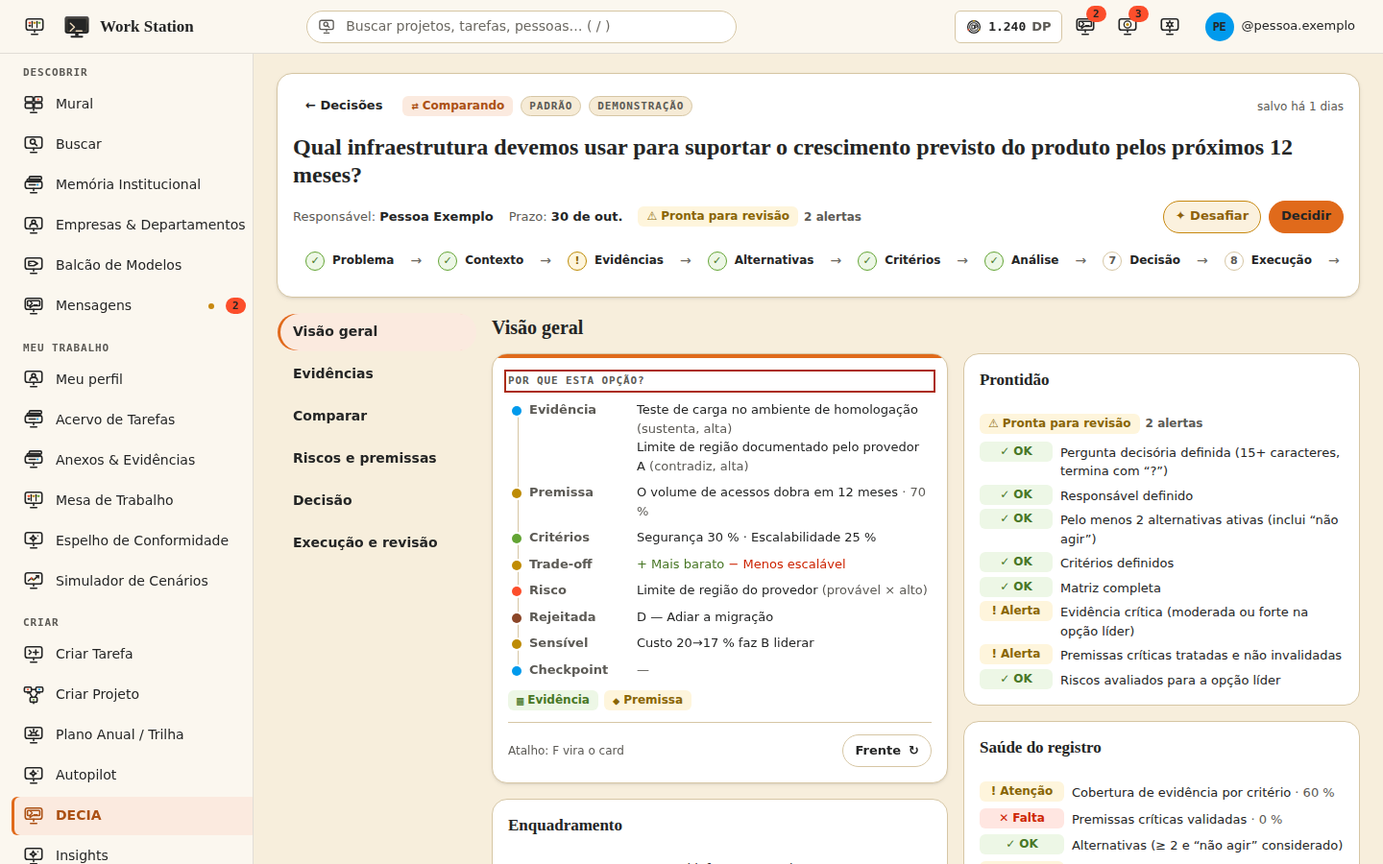
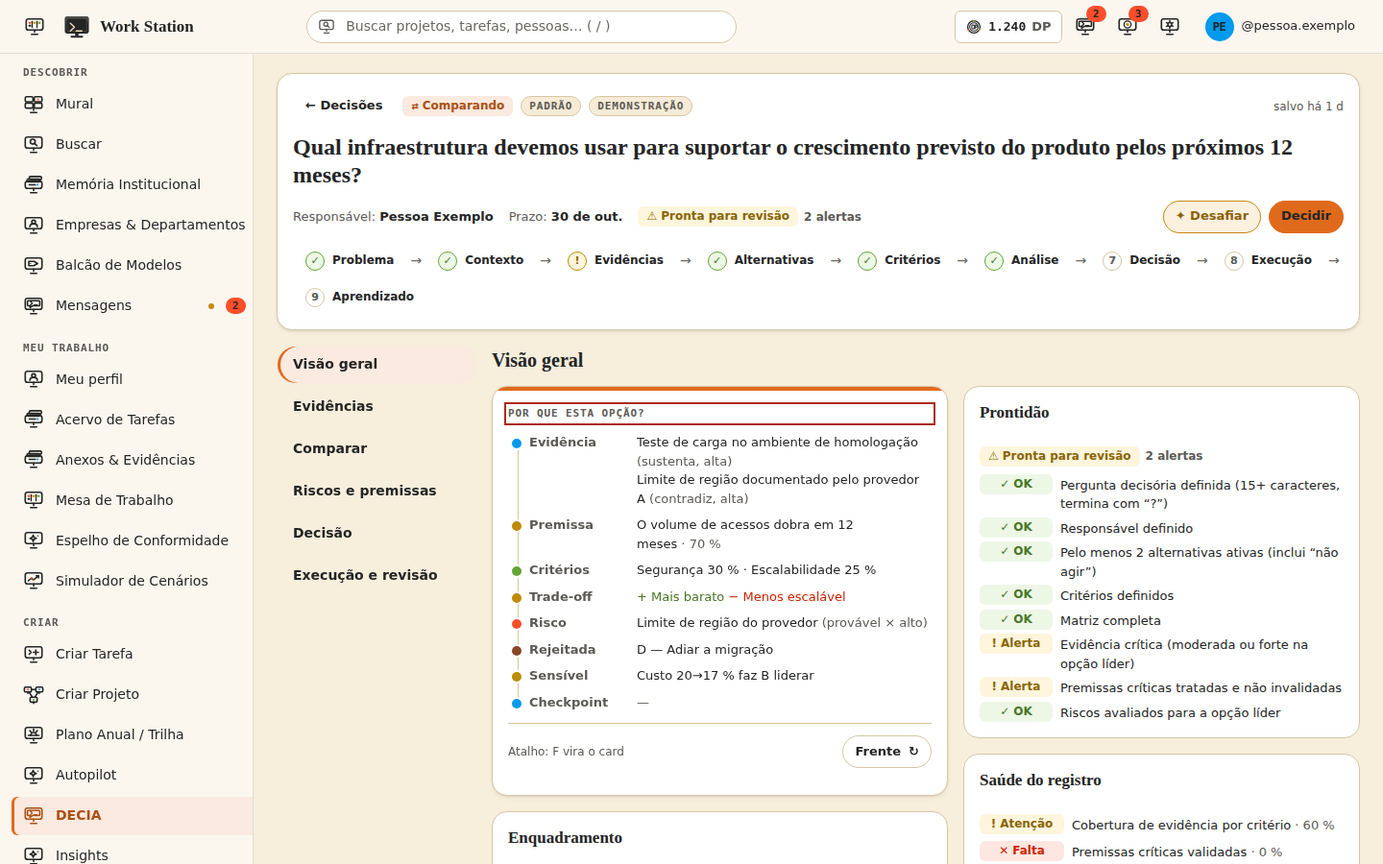
fix(rf29): align decia enums, guard and vectors with java domain; fix mobile overflow
Claude-Session: https://claude.ai/code/session_01KGwP9AAPCHnmdWi7UQkQYW

Changed region(s): [[0.1875, 0.3422, 1.0, 1.0], [0.1875, 0.4667, 0.3125, 0.6844], [0.9062, 0.0933, 0.9688, 0.1244]]

diff --git a/lib/decia/commands.ts b/lib/decia/commands.ts
@@ -5,14 +5,14 @@
  */
 import { buildSnapshotContent, canonicalJson, MODEL_VERSION, preDecisionGuard, sha256Hex, snapConfidence, type DecisionDraft } from "./rules";
 import type {
-  DecisionAggregate, DecisionComplexity, DecisionEvent, DecisionEventType, TimelineMarker, DecisionKind, DecisionLevel, DecisionLifecycle, DecisionSnapshot,
+  DecisionAggregate, DecisionComplexity, DecisionEvent, DecisionEventType, DecisionKind, DecisionLevel, DecisionLifecycle, DecisionSnapshot,
   EvidenceNature, EvidenceStance, OutcomeResult, RelevanceLevel,
 } from "./types";
 
 let seq = 0;
 const nextId = (prefix: string) => `${prefix}-${Date.now().toString(36)}-${(seq++).toString(36)}`;
 
-function touch(agg: DecisionAggregate, now: Date, actor: string | null, type: DecisionEventType | TimelineMarker, payload: Record<string, unknown> = {}): DecisionAggregate {
+function touch(agg: DecisionAggregate, now: Date, actor: string | null, type: DecisionEventType, payload: Record<string, unknown> = {}): DecisionAggregate {
   const ev: DecisionEvent = { id: nextId("ev"), actorUserId: actor, type, payload, at: now.toISOString() };
   return { ...agg, decision: { ...agg.decision, version: agg.decision.version + 1, updatedAt: now.toISOString() }, events: [...agg.events, ev] };
 }
@@ -21,19 +21,19 @@ function touch(agg: DecisionAggregate, now: Date, actor: string | null, type: De
 export function setScore(agg: DecisionAggregate, altId: string, critId: string, assessorId: string, score: number | null, now: Date): DecisionAggregate {
   const rest = agg.assessments.filter((a) => !(a.alternativeId === altId && a.criterionId === critId && a.assessorUserId === assessorId));
   const assessments = score === null ? rest : [...rest, { id: nextId("as"), alternativeId: altId, criterionId: critId, assessorUserId: assessorId, score: Math.max(1, Math.min(5, Math.round(score))), submittedAt: now.toISOString(), origin: "HUMANO" as const }];
-  return touch({ ...agg, assessments }, now, assessorId, "DECISION_COMPARED", { altId, critId, score });
+  return touch({ ...agg, assessments }, now, assessorId, "AVALIACAO_REGISTRADA", { altId, critId, score });
 }
 
 export function setWeight(agg: DecisionAggregate, critId: string, weightPct: number | null, actor: string, now: Date): DecisionAggregate {
   const criteria = agg.criteria.map((c) => (c.id === critId ? { ...c, weightPct } : c));
-  return touch({ ...agg, criteria }, now, actor, "CRITERION_CHANGED", { critId, weightPct });
+  return touch({ ...agg, criteria }, now, actor, "CRITERIO_ATUALIZADO", { critId, weightPct });
 }
 
 export function addAlternative(agg: DecisionAggregate, input: { title: string; doNothing?: boolean }, actor: string, now: Date): DecisionAggregate {
   const position = agg.alternatives.length;
   const label = String.fromCharCode(65 + (position % 26));
   const alternative = { id: nextId("alt"), label, title: input.title.trim(), doNothing: !!input.doNothing, pros: [], cons: [], status: "ATIVA" as const, origin: "HUMANO" as const, position };
-  return touch({ ...agg, alternatives: [...agg.alternatives, alternative] }, now, actor, "ALTERNATIVE_ADDED", { label });
+  return touch({ ...agg, alternatives: [...agg.alternatives, alternative] }, now, actor, "ALTERNATIVA_CRIADA", { label });
 }
 
 export function addEvidence(
@@ -49,22 +49,22 @@ export function addEvidence(
     origin: "HUMANO" as const, addedByUserId: actor, addedAt: now.toISOString(),
   };
   const links = input.altId ? [{ id: nextId("lnk"), evidenceId: id, targetType: "ALTERNATIVA" as const, targetId: input.altId, stance: input.stance ?? "SUSTENTA", createdAt: now.toISOString() }] : [];
-  return touch({ ...agg, evidence: [...agg.evidence, evidence], evidenceLinks: [...agg.evidenceLinks, ...links] }, now, actor, "EVIDENCE_ADDED", { evidenceId: id });
+  return touch({ ...agg, evidence: [...agg.evidence, evidence], evidenceLinks: [...agg.evidenceLinks, ...links] }, now, actor, "EVIDENCIA_ADICIONADA", { evidenceId: id });
 }
 
 export function addCriteria(agg: DecisionAggregate, names: readonly string[], actor: string, now: Date): DecisionAggregate {
   const start = agg.criteria.length;
   const criteria = [...agg.criteria, ...names.map((name, i) => ({ id: nextId("crt"), name, direction: "MAIOR_MELHOR" as const, weightPct: null, origin: "HUMANO" as const, position: start + i }))];
-  return touch({ ...agg, criteria }, now, actor, "CRITERION_CHANGED", { added: names.length });
+  return touch({ ...agg, criteria }, now, actor, "CRITERIO_ATUALIZADO", { added: names.length });
 }
 
 export function setRecommendationStatus(agg: DecisionAggregate, recId: string, status: "ACEITA" | "DESCARTADA", actor: string, now: Date): DecisionAggregate {
   const recommendations = agg.recommendations.map((r) => (r.id === recId ? { ...r, status } : r));
-  return touch({ ...agg, recommendations }, now, actor, status === "ACEITA" ? "AI_SUGGESTION_ACCEPTED" : "AI_SUGGESTION_DISMISSED", { recId });
+  return touch({ ...agg, recommendations }, now, actor, status === "ACEITA" ? "SUGESTAO_IA_ACEITA" : "SUGESTAO_IA_DESCARTADA", { recId });
 }
 
 export function setStatus(agg: DecisionAggregate, to: DecisionLifecycle, actor: string, now: Date): DecisionAggregate {
-  return touch({ ...agg, decision: { ...agg.decision, status: to } }, now, actor, "STATUS_CHANGED", { to });
+  return touch({ ...agg, decision: { ...agg.decision, status: to } }, now, actor, "ESTADO_ALTERADO", { to });
 }
 
 export class DecisionIncompleteError extends Error {
@@ -79,10 +79,12 @@ export class DecisionIncompleteError extends Error {
  * DECISAO append-only com o hash do JSON canônico e muda o estado para DECIDIDA. O snapshot nunca é atualizado depois.
  */
 export function decide(agg: DecisionAggregate, draft: DecisionDraft & { warningsConfirmed?: boolean }, actor: string, now: Date): { aggregate: DecisionAggregate; snapshot: DecisionSnapshot } {
-  const guard = preDecisionGuard(agg, draft);
+  // a guarda roda sobre exatamente os valores que serão gravados (confiança já normalizada, motivo sem espaços nas pontas)
+  const confidencePct = draft.confidencePct == null ? undefined : snapConfidence(draft.confidencePct);
+  const stored = { selectedAlternativeId: draft.selectedAlternativeId, rationale: draft.rationale.trim(), confidencePct };
+  const guard = preDecisionGuard(agg, stored);
   if (guard.blocking.length) throw new DecisionIncompleteError(guard.blocking);
   if (guard.warnings.length && !draft.warningsConfirmed) throw new DecisionIncompleteError(["DECISAO_AVISOS_NAO_CONFIRMADOS"]);
-  const confidencePct = draft.confidencePct == null ? undefined : snapConfidence(draft.confidencePct);
   const content = buildSnapshotContent(agg, { ...draft, confidencePct, decidedByUserId: actor });
   const contentJson = canonicalJson(content);
   const versionNumber = agg.snapshots.length + 1;
@@ -96,15 +98,15 @@ export function decide(agg: DecisionAggregate, draft: DecisionDraft & { warnings
     decision: { ...agg.decision, status: "DECIDIDA", selectedAlternativeId: selected.id, decidedAt: now.toISOString(), rationale: draft.rationale.trim(), decisionConfidencePct: confidencePct },
     snapshots: [...agg.snapshots, snapshot],
   };
-  const withTrail = touch(touch(decided, now, actor, "DECISION_FINALIZED", { snapshotId: snapshot.id, warnings: guard.warnings, sha256: snapshot.contentSha256 }), now, actor, "STATUS_CHANGED", { to: "DECIDIDA" });
+  const withTrail = touch(touch(decided, now, actor, "DECISAO_FINALIZADA", { snapshotId: snapshot.id, warnings: guard.warnings, sha256: snapshot.contentSha256 }), now, actor, "ESTADO_ALTERADO", { to: "DECIDIDA" });
   return { aggregate: withTrail, snapshot };
 }
 
 /** Registrar o resultado observado (único por decisão) e mover para RESOLVIDA. */
 export function recordOutcome(agg: DecisionAggregate, input: { result: OutcomeResult; summary: string }, actor: string, now: Date): DecisionAggregate {
   const outcome = { id: nextId("out"), result: input.result, summary: input.summary.trim(), observedAt: now.toISOString(), recordedByUserId: actor };
-  const withOutcome = touch({ ...agg, outcome, decision: { ...agg.decision, status: "RESOLVIDA" } }, now, actor, "OUTCOME_RECORDED", { result: input.result });
-  return touch(withOutcome, now, actor, "STATUS_CHANGED", { to: "RESOLVIDA" });
+  const withOutcome = touch({ ...agg, outcome, decision: { ...agg.decision, status: "RESOLVIDA" } }, now, actor, "RESULTADO_REGISTRADO", { result: input.result });
+  return touch(withOutcome, now, actor, "ESTADO_ALTERADO", { to: "RESOLVIDA" });
 }
 
 export interface NewDecisionInput {
@@ -137,7 +139,7 @@ export function createDecision(input: NewDecisionInput, now: Date, id = nextId("
     participants: [{ userId: input.ownerUserId, role: "CONDUTOR", joinedAt: iso }],
     alternatives: [], criteria: [], assessments: [], evidence: [], evidenceLinks: [], assumptions: [], risks: [], scenarios: [], forecasts: [],
     recommendations: [], triggers: [], snapshots: [], checkpoints: [], workLinks: [],
-    events: [{ id: nextId("ev"), actorUserId: input.ownerUserId, type: "DECISION_CREATED", payload: { complexity: input.complexity }, at: iso }],
+    events: [{ id: nextId("ev"), actorUserId: input.ownerUserId, type: "DECISAO_CRIADA", payload: { complexity: input.complexity }, at: iso }],
   };
   return tpl ? { ...addCriteria(agg, tpl.criteria, input.ownerUserId, now), decision: { ...agg.decision, version: 1 } } : agg;
 }

diff --git a/components/shell/RfPage.tsx b/components/shell/RfPage.tsx
@@ -43,7 +43,7 @@ export function RfBlock({ rf, open = false }: { rf: RfEntry; open?: boolean }) {
         <span className="min-w-0 flex-1">{rf.title}</span>
         <span className="text-ws-text-muted transition-transform group-open:rotate-180" aria-hidden>⌄</span>
       </summary>
-      <div className="grid gap-3 border-t border-ws-border p-3 text-[length:var(--ws-text-body-sm)]">
+      <div className="grid gap-3 border-t border-ws-border p-3 text-[length:var(--ws-text-body-sm)] [overflow-wrap:anywhere]">
         {rf.hu ? <p><span className="font-semibold">{t("rf.story")}:</span> {rf.hu}</p> : null}
         {!rf.hu && rf.summary ? <p className="text-ws-text-muted">{rf.summary}</p> : null}
         {rf.route ? <p className="text-ws-text-muted"><span className="font-semibold text-ws-text">{t("rf.route")}:</span> {rf.route}</p> : null}
@@ -92,7 +92,7 @@ export function RfPage({ page, subtitle, tabs, tabLabel, renderTab, children, hi
           code="403 ACESSO_NEGADO"
           action={<div className="flex items-center gap-2 text-[length:var(--ws-text-caption)] text-ws-text-muted">{t("viewer.switchHint")} <ViewerProfileSelect /></div>}
         />
-        {!hideCas && rfs.length ? <section aria-labelledby="rf-block" className="grid gap-2"><h2 id="rf-block" className="font-[family-name:var(--ws-font-display)] text-[length:var(--ws-text-h3)] font-semibold">{t("rf.whatThisTabDoes")}</h2>{rfs.map((rf) => <RfBlock key={rf.id} rf={rf} />)}</section> : null}
+        {!hideCas && rfs.length ? <section aria-labelledby="rf-block" className="grid grid-cols-[minmax(0,1fr)] gap-2"><h2 id="rf-block" className="font-[family-name:var(--ws-font-display)] text-[length:var(--ws-text-h3)] font-semibold">{t("rf.whatThisTabDoes")}</h2>{rfs.map((rf) => <RfBlock key={rf.id} rf={rf} />)}</section> : null}
       </div>
     );
   }
@@ -102,7 +102,7 @@ export function RfPage({ page, subtitle, tabs, tabLabel, renderTab, children, hi
   );
 
   return (
-    <div className="grid gap-[var(--ws-space-5)]">
+    <div className="grid grid-cols-[minmax(0,1fr)] gap-[var(--ws-space-5)]">
       <PageHeader
         title={title}
         glyph={page.glyph}
@@ -126,10 +126,10 @@ export function RfPage({ page, subtitle, tabs, tabLabel, renderTab, children, hi
         <EmptyState moji={page.moji ?? "vazio"} title={t(emptyTitleKey ?? "rf.emptyTitleNoTab")} description={t("rf.emptyDescription")} />
       )}
       {!hideCas && rfs.length ? (
-        <section aria-labelledby="rf-block" className="grid gap-2">
+        <section aria-labelledby="rf-block" className="grid grid-cols-[minmax(0,1fr)] gap-2">
           <h2 id="rf-block" className="font-[family-name:var(--ws-font-display)] text-[length:var(--ws-text-h3)] font-semibold">{t("rf.whatThisTabDoes")}</h2>
           <p className="text-[length:var(--ws-text-caption)] text-ws-text-muted">{t("rf.ptBrNote")}</p>
-          <div className={cn("grid gap-2")}>{rfs.map((rf, i) => <RfBlock key={rf.id} rf={rf} open={i === 0} />)}</div>
+          <div className={cn("grid grid-cols-[minmax(0,1fr)] gap-2")}>{rfs.map((rf, i) => <RfBlock key={rf.id} rf={rf} open={i === 0} />)}</div>
         </section>
       ) : null}
       <Card tone="soft" padding="sm" className="text-[length:var(--ws-text-caption)] text-ws-text-muted">

diff --git a/lib/decia/types.ts b/lib/decia/types.ts
@@ -69,18 +69,26 @@ export type OutcomeResult = "SUCESSO" | "PARCIAL" | "FALHOU" | "CANCELADA" | "SU
 export type ProcessQuality = "ADEQUADA" | "PARCIAL" | "INADEQUADA";
 export type WorkLinkTarget = "TAREFA" | "PROJETO" | "MARCO";
 
-/** Eventos de domínio (§9 em maiúsculas) — mesmos valores do enum Java `DecisionEventType`; o nome de analytics é o minúsculo. */
-export const DECISION_EVENT_TYPES = [
-  "DECISION_CREATED", "EVIDENCE_ADDED", "ALTERNATIVE_ADDED", "CRITERION_CHANGED", "DECISION_COMPARED", "DECISION_CHALLENGED",
-  "DECISION_FINALIZED", "DECISION_REOPENED", "CHECKPOINT_COMPLETED", "OUTCOME_RECORDED", "REVIEW_COMPLETED", "CARD_FLIPPED",
-  "AI_SUGGESTION_ACCEPTED", "AI_SUGGESTION_DISMISSED",
-] as const;
-export type DecisionEventType = (typeof DECISION_EVENT_TYPES)[number];
 /**
- * Marcador de transição de estado usado só pela linha do tempo do mock (04 §3 `timeline`, "de decision_events"). Não existe
- * no enum Java: quando a API existir, a linha do tempo virá do payload `to` dos eventos (ambiguidade registrada no relatório).
+ * Fatos de domínio da decisão (pretérito) — mesmos valores e nomes de mensagem do enum Java `DecisionEventType`
+ * (ws-domain, PR #30). Formam o histórico da decisão (linha do tempo do card). Eventos de interface/analytics
+ * (`card_flipped`, `decision_compared`, `ai_suggestion_*`…) vivem só em lib/decia/analytics.ts e nunca entram aqui.
  */
-export type TimelineMarker = "STATUS_CHANGED";
+export const DECISION_EVENT_MESSAGE = {
+  DECISAO_CRIADA: "DecisionCreated", PROBLEMA_ENQUADRADO: "DecisionFramed", ESTADO_ALTERADO: "DecisionStatusChanged",
+  EVIDENCIA_ADICIONADA: "EvidenceAdded", EVIDENCIA_SUBSTITUIDA: "EvidenceSuperseded", ALTERNATIVA_CRIADA: "AlternativeCreated",
+  ALTERNATIVA_DESCARTADA: "AlternativeDiscarded", CRITERIO_ATUALIZADO: "CriterionUpdated", AVALIACAO_REGISTRADA: "AssessmentRecorded",
+  PREMISSA_ATUALIZADA: "AssumptionUpdated", RISCO_ALTERADO: "RiskChanged", RECOMENDACAO_GERADA: "RecommendationGenerated",
+  SUGESTAO_IA_ACEITA: "AiSuggestionAccepted", SUGESTAO_IA_DESCARTADA: "AiSuggestionDismissed", DECISAO_DESAFIADA: "DecisionChallenged",
+  DECISAO_FINALIZADA: "DecisionFinalized", DECISAO_REABERTA: "DecisionReopened", TRABALHO_VINCULADO: "WorkItemsLinked",
+  CHECKPOINT_VENCENDO: "CheckpointDue", CHECKPOINT_CONCLUIDO: "CheckpointCompleted", GATILHO_DISPARADO: "TriggerFired",
+  RESULTADO_REGISTRADO: "OutcomeRecorded", REVISAO_CONCLUIDA: "ReviewCompleted", DECISAO_ARQUIVADA: "DecisionArchived",
+} as const;
+export type DecisionEventType = keyof typeof DECISION_EVENT_MESSAGE;
+export const DECISION_EVENT_TYPES = Object.keys(DECISION_EVENT_MESSAGE) as DecisionEventType[];
+
+/** Estado de uma análise assíncrona da IA — distinto do estado da decisão (nunca termos técnicos de mensageria na UI). */
+export type AiAnalysisState = "SOLICITADA" | "PROCESSANDO" | "PARCIAL" | "CONCLUIDA" | "FALHOU";
 
 /** Datas sempre em ISO-8601 (UTC). */
 export type IsoDate = string;
@@ -304,7 +312,7 @@ export interface DecisionEvent {
   id: string;
   /** nulo = IA/sistema */
   actorUserId: string | null;
-  type: DecisionEventType | TimelineMarker;
+  type: DecisionEventType;
   payload: Record<string, unknown>;
   at: IsoDate;
   correlationId?: string;

diff --git a/components/decia/Dialogs.tsx b/components/decia/Dialogs.tsx
@@ -4,7 +4,7 @@ import { Button, Checkbox, Dialog, Field, Input, Select, Tag, Textarea, useToast
 import { track } from "@/lib/decia/analytics";
 import { addAlternative, addEvidence, decide, recordOutcome } from "@/lib/decia/commands";
 import { focusAlternativeId, preDecisionGuard, scoreOf } from "@/lib/decia/rules";
-import type { DecisionAggregate, EvidenceNature, EvidenceStance, OutcomeResult, RelevanceLevel } from "@/lib/decia/types";
+import type { AiAnalysisState, DecisionAggregate, EvidenceNature, EvidenceStance, OutcomeResult, RelevanceLevel } from "@/lib/decia/types";
 import { useI18n } from "@/lib/i18n/useI18n";
 
 export interface DialogBaseProps {
@@ -105,8 +105,11 @@ export const CHALLENGE_MODES = ["reasoning", "alternatives", "assumptions", "cou
 export function ChallengeDialog({ open, onOpenChange, decisionId }: { open: boolean; onOpenChange: (o: boolean) => void; decisionId: string }) {
   const { t } = useI18n();
   const [asked, setAsked] = useState<string | null>(null);
+  // estado da análise assíncrona (Solicitada → Processando → Parcial/Concluída/Falhou), separado do estado da decisão;
+  // sem serviço de IA conectado, todo pedido termina em "Falhou" com mensagem em linguagem simples
+  const [state, setState] = useState<AiAnalysisState | null>(null);
   useEffect(() => {
-    if (!open) setAsked(null);
+    if (!open) { setAsked(null); setState(null); }
   }, [open]);
   return (
     <Dialog open={open} onOpenChange={onOpenChange} title={t("decia.challenge.title")} description={t("decia.challenge.desc")} className="w-[min(94vw,36rem)]">
@@ -116,13 +119,13 @@ export function ChallengeDialog({ open, onOpenChange, decisionId }: { open: bool
           {CHALLENGE_MODES.map((m) => (
             <li key={m} className="flex flex-wrap items-center justify-between gap-2 rounded-[var(--ws-radius-md)] border border-ws-ai-spark bg-ws-ai-spark-soft p-3">
               <span className="flex min-w-0 items-center gap-2 text-[length:var(--ws-text-body-sm)] font-semibold"><span aria-hidden className="text-ws-ai-spark-ink">✦</span>{t(`decia.challenge.modes.${m}`)}</span>
-              <Button size="sm" variant="spark" onClick={() => { setAsked(m); track("decision_challenged", { decisionId, mode: m }); }}>{t("decia.challenge.run")}</Button>
+              <Button size="sm" variant="spark" onClick={() => { setAsked(m); setState("FALHOU"); track("decision_challenged", { decisionId, mode: m }); }}>{t("decia.challenge.run")}</Button>
             </li>
           ))}
         </ul>
         {asked ? (
           <div role="alert" className="grid gap-1 rounded-[var(--ws-radius-md)] border border-ws-danger bg-ws-danger-soft p-3 text-[length:var(--ws-text-body-sm)]" data-testid="ai-unavailable">
-            <p className="font-semibold">{t("decia.ai.unavailable")}</p>
+            <p className="flex flex-wrap items-center gap-2 font-semibold">{t("decia.ai.unavailable")}{state ? <span data-testid="ai-state"><Tag tone="danger">{t("decia.aiState.label", { state: t(`decia.aiState.${state}`) })}</Tag></span> : null}</p>
             <p className="text-ws-text-muted">{t("decia.challenge.unavailableDetail", { mode: t(`decia.challenge.modes.${asked}`) })}</p>
           </div>
         ) : null}

diff --git a/components/decia/DecisionWorkspace.tsx b/components/decia/DecisionWorkspace.tsx
@@ -73,7 +73,7 @@ export function DecisionWorkspace({ aggregate, now, currentUserId, people, onSav
   const deadline = d.targetDate ? formatDay(d.targetDate, intl) : t("decia.card.noDeadline");
 
   return (
-    <div className="grid gap-[var(--ws-space-4)]" data-testid="workspace">
+    <div className="grid grid-cols-[minmax(0,1fr)] gap-[var(--ws-space-4)]" data-testid="workspace">
       <header className="grid gap-[var(--ws-space-3)] rounded-[var(--ws-radius-lg)] border border-ws-border bg-ws-surface-1 p-[var(--ws-space-4)] shadow-ws-1">
         <div className="flex flex-wrap items-center gap-2">
           {backHref ? <Button size="sm" variant="ghost" href={backHref}>← {t("decia.ws.back")}</Button> : null}
@@ -115,7 +115,7 @@ export function DecisionWorkspace({ aggregate, now, currentUserId, people, onSav
         </nav>
       </header>
 
-      <div className="grid gap-[var(--ws-space-4)] lg:grid-cols-[13rem_minmax(0,1fr)]">
+      <div className="grid grid-cols-[minmax(0,1fr)] gap-[var(--ws-space-4)] lg:grid-cols-[13rem_minmax(0,1fr)]">
         <div className="lg:hidden">
           <Select aria-label={t("decia.ws.sectionsLabel")} value={section} onChange={(e) => go(e.target.value as WorkspaceSection)} options={WORKSPACE_SECTIONS.map((s) => ({ value: s, label: t(`decia.ws.section.${s}`) }))} />
         </div>

diff --git a/lib/decia/fixtures.ts b/lib/decia/fixtures.ts
@@ -68,8 +68,8 @@ const crit = (id: string, name: string, position: number, weightPct: number | nu
 const scores = (now: Date, prefix: string, by: string, altId: string, entries: [string, number][]): CriterionAssessment[] =>
   entries.map(([critId, score]) => ({ id: `${prefix}-${altId}-${critId}-${by}`, alternativeId: altId, criterionId: critId, assessorUserId: by, score, submittedAt: at(now, -6), origin: H }));
 const statusTrail = (now: Date, prefix: string, trail: [DecisionLifecycle, number][]): DecisionEvent[] => [
-  { id: `${prefix}-ev-0`, actorUserId: DEMO_CURRENT_USER_ID, type: "DECISION_CREATED", payload: {}, at: at(now, trail[0]?.[1] ?? -30) },
-  ...trail.map(([status, days], i) => ({ id: `${prefix}-ev-${i + 1}`, actorUserId: DEMO_CURRENT_USER_ID, type: "STATUS_CHANGED" as const, payload: { to: status }, at: at(now, days) })),
+  { id: `${prefix}-ev-0`, actorUserId: DEMO_CURRENT_USER_ID, type: "DECISAO_CRIADA", payload: {}, at: at(now, trail[0]?.[1] ?? -30) },
+  ...trail.map(([status, days], i) => ({ id: `${prefix}-ev-${i + 1}`, actorUserId: DEMO_CURRENT_USER_ID, type: "ESTADO_ALTERADO" as const, payload: { to: status }, at: at(now, days) })),
 ];
 
 function snapshot(agg: DecisionAggregate, takenAt: string, by: string): DecisionSnapshot {

diff --git a/lib/decia/analytics.test.ts b/lib/decia/analytics.test.ts
@@ -1,13 +1,16 @@
 import { afterEach, describe, expect, it, vi } from "vitest";
 import { DECIA_ANALYTICS_EVENTS, setAnalyticsSink, track, type AnalyticsRecord } from "./analytics";
-import { DECISION_EVENT_TYPES } from "./types";
+import { DECISION_EVENT_MESSAGE, DECISION_EVENT_TYPES } from "./types";
 
 afterEach(() => setAnalyticsSink(null));
 
 describe("analytics do DECIA (03 §9)", () => {
-  it("lista os 14 eventos da especificação; em maiúsculas são o enum DecisionEventType (Java)", () => {
+  it("lista os 14 eventos da especificação, separados dos fatos de domínio (histórico da decisão)", () => {
     expect(DECIA_ANALYTICS_EVENTS).toHaveLength(14);
-    expect(DECIA_ANALYTICS_EVENTS.map((e) => e.toUpperCase())).toEqual([...DECISION_EVENT_TYPES]);
+    for (const e of DECIA_ANALYTICS_EVENTS) expect(DECISION_EVENT_TYPES as string[]).not.toContain(e);
+    expect(DECISION_EVENT_TYPES).toHaveLength(24);
+    expect(DECISION_EVENT_TYPES as string[]).not.toContain("CARD_FLIPPED");
+    expect(DECISION_EVENT_MESSAGE.DECISAO_CRIADA).toBe("DecisionCreated");
   });
 
   it("sink padrão é no-op e não escreve no console", () => {

diff --git a/lib/decia/rules.ts b/lib/decia/rules.ts
@@ -35,7 +35,7 @@ export interface ScoringInput {
 export interface RankingRow { alt: string; score: number; contributions: Record<string, number> }
 export interface ScoreResult {
   valid: boolean;
-  reason: "PESO_INVALIDO" | "PESOS_NAO_SOMAM_100" | null;
+  reason: "SEM_CRITERIOS" | "PESO_INVALIDO" | "PESOS_NAO_SOMAM_100" | null;
   weightSum: number | null;
   ranking: RankingRow[];
   incomplete: string[];
@@ -62,6 +62,7 @@ export function consensus(inp: ScoringInput, alts: readonly string[] = activeKey
 export function scoreMatrix(inp: ScoringInput, weightsOverride?: Record<string, number>): ScoreResult {
   const crits = inp.criteria.map((c) => c.key);
   const alts = activeKeys(inp);
+  if (!crits.length) return { valid: false, reason: "SEM_CRITERIOS", weightSum: null, ranking: [], incomplete: [], leader: null };
   let w: Record<string, number>;
   if (inp.weightingEnabled) {
     const raw: Record<string, number | null | undefined> = weightsOverride ?? Object.fromEntries(inp.criteria.map((c) => [c.key, c.weightPct]));

diff --git a/lib/decia/view-model.test.ts b/lib/decia/view-model.test.ts
@@ -86,7 +86,7 @@ describe("comandos e repositório em memória", () => {
     const a4 = addEvidence(a3, { title: "Benchmark", nature: "FATO", sourceLabel: "lab", reliability: "ALTA", altId: "arq-a", stance: "SUSTENTA" }, "u-pessoa", NOW);
     expect(a4.evidenceLinks.at(-1)).toMatchObject({ targetId: "arq-a", stance: "SUSTENTA" });
     const a5 = addCriteria(a4, ["Suporte"], "u-pessoa", NOW);
-    expect(a5.events.slice(-5).map((e) => e.type)).toEqual(["DECISION_COMPARED", "CRITERION_CHANGED", "ALTERNATIVE_ADDED", "EVIDENCE_ADDED", "CRITERION_CHANGED"]);
+    expect(a5.events.slice(-5).map((e) => e.type)).toEqual(["AVALIACAO_REGISTRADA", "CRITERIO_ATUALIZADO", "ALTERNATIVA_CRIADA", "EVIDENCIA_ADICIONADA", "CRITERIO_ATUALIZADO"]);
     expect(createDecision({ question: "Qual?", complexity: "RAPIDA", impact: "BAIXO", ownerUserId: "u" }, NOW).criteria).toEqual([]);
   });
 

diff --git a/lib/decia/analytics.ts b/lib/decia/analytics.ts
@@ -1,5 +1,7 @@
 /**
- * DECIA — eventos de produto (03 §9). Lista tipada e um "sink" trocável: por padrão é no-op (sem console, sem rede);
+ * DECIA — eventos de produto (03 §9). Separados dos fatos de domínio (`DecisionEventType`, histórico da decisão):
+ * eventos de interface como `card_flipped` e `decision_compared` nunca entram no histórico.
+ * Lista tipada e um "sink" trocável: por padrão é no-op (sem console, sem rede);
  * o backend de analytics, quando existir, registra o próprio sink. Métricas sempre com contexto, nunca "tempo no app",
  * e nada de XP por quantidade (G9).
  */

diff --git a/components/decia/decia.test.tsx b/components/decia/decia.test.tsx
@@ -308,6 +308,8 @@ describe("Desafiar e caixa de entrada", () => {
     expect(screen.getAllByRole("button", { name: "Pedir análise" })).toHaveLength(5);
     fireEvent.click(screen.getAllByRole("button", { name: "Pedir análise" })[0]!);
     expect(screen.getByTestId("ai-unavailable").textContent).toContain("Análise de IA indisponível");
+    expect(screen.getByTestId("ai-state").textContent).toBe("Análise: falhou");
+    expect(screen.getByRole("dialog").textContent).not.toMatch(/router|consumer|dead letter|fila/i);
   });
 
   it("grupos da caixa de entrada", () => {

diff --git a/lib/decia/view-model.ts b/lib/decia/view-model.ts
@@ -176,7 +176,7 @@ export function toDecisionCardViewModel(agg: DecisionAggregate, now: Date, opts:
     outcome: agg.outcome?.result ?? null,
     stakeholders: d.stakeholders,
     back,
-    timeline: agg.events.filter((e) => e.type === "STATUS_CHANGED").map((e) => ({ status: e.payload.to as DecisionLifecycle, at: e.at })),
+    timeline: agg.events.filter((e) => e.type === "ESTADO_ALTERADO").map((e) => ({ status: e.payload.to as DecisionLifecycle, at: e.at })),
     nextAction: nextActionOf(agg, r, now),
   };
 }
